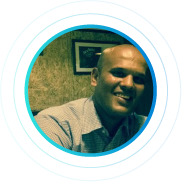
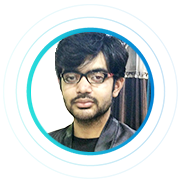
new people and tumblr

diff --git a/index.html b/index.html
@@ -230,8 +230,8 @@ https://mc.yandex.ru/watch/50660881
                     </a>
 				</li>
 				<li class="opn__item">
-					<a href="https://medium.com/@openpackaging" target="_blank" rel="nofollow">
-                        <i class="fab fa-medium-m opn__icon"></i>
+					<a href="https://openpackagingnetwork.tumblr.com/" target="_blank" rel="nofollow">
+                        <i class="fab fa-tumblr opn__icon"></i>
                     </a>
 				</li>
 				<li class="opn__item">
@@ -1382,18 +1382,24 @@ https://mc.yandex.ru/watch/50660881
 				<div class="member-photo">
 					<img src="./images/face4.png?v=1" alt="">
 				</div>
-				<h3 class="member-name">Sanjeev Raghu</h3>
-				<h4 class="member-position">Marketing Advisor</h4>
-				<p class="member-country">New Delhi Area, India</p>
+				<h3 class="member-name">Ashish Rajput</h3>
+				<h4 class="member-position">Marketing and Partnership Advisor</h4>
+				<p class="member-country">Noida, India, India</p>
 				<a class="linked-in-link" target="_blank" rel="nofollow"
-				   href="https://www.linkedin.com/in/sanjeev-raghu-89321312/">
+				   href="https://www.linkedin.com/in/ashish-rajput-5a5692169">
 					<img class="linkedin_icon" src="./images/icon_linkedin.svg?v=1" alt="">
 				</a>
 				<img class="team__img-country" src="./images/icon_india.png?v=1" alt="">
-				<p class="member-progress">Sanjeev is a Sales & Marketing professional with 14 years of experience
-					across E-commerce, Education & Finance industries. He has led P&L roles to generate revenue
-					while being profitable through digital sales platforms. He is active trader & advices ICO’s
-					to setup marketing strategies.</p>
+				<p class="member-progress">Ashish Rajput has change his imaginations
+					into reality and has a great experience in marketing and PR.
+					Already worked with lots of big projects as marketing and partnership
+					director and raised big amount of funds for his projects by using
+					his super strategies. Recently he served Universal Labs as marketing
+					coordinator and currently working with Investa and Twogap as
+					Marketing manager and partnership director. He also believes
+					in strong collaboration so he made big projects to do partnership
+					with each other in order to create something more better and
+					to achieve something outstanding.</p>
 				<div class="member_bottom">
 					<div class="gorizontal-line">
 					</div>
@@ -1489,7 +1495,7 @@ https://mc.yandex.ru/watch/50660881
 					<a href="https://www.linkedin.com/company/openpackagingnetwork/" rel="nofollow" target="_blank"
 					   class="social in"></a>
 					<a href="https://github.com/OPNAG/contracts" target="_blank" rel="nofollow" class="social git"></a>
-					<a href="https://medium.com/@openpackaging" target="_blank" rel="nofollow" class="social m"></a>
+					<a href="https://openpackagingnetwork.tumblr.com/" target="_blank" rel="nofollow" class="social t"></a>
 					<a href="https://www.reddit.com/user/opnplatform" rel="nofollow" target="_blank"
 					   class="social re"></a>
 					<a href="https://steemit.com/@openpackaging" rel="nofollow" target="_blank" class="social st"></a>

diff --git a/css/style.css b/css/style.css
@@ -909,13 +909,13 @@ h2 {
 	background-size: contain;
 }
 
-.social.m {
-	background: url('../images/m_d.svg') no-repeat;
+.social.t {
+	background: url('../images/t_h.svg') no-repeat;
 	background-size: contain;
 }
 
-.social.m:hover {
-	background: url('../images/m_h.svg') no-repeat;
+.social.t:hover {
+	background: url('../images/t_d.svg') no-repeat;
 	background-size: contain;
 }
 
@@ -1612,17 +1612,14 @@ footer {
 }
 
 .opn__item--steemit a {
-	background-image: url(../images/steem.png);
+	background-image: url(../images/steemit-icon.svg);
 	background-repeat: no-repeat;
 	background-size: 25px 25px;
 	background-position: center;
 }
 
 .opn__item--steemit a:hover {
-	background-image: url(../images/steem-hover.png);
-	background-repeat: no-repeat;
-	background-size: 26px 25px;
-	background-position: center;
+	background-image: url(../images/steemit2-icon.svg);
 }
 
 .opn__mvp {
